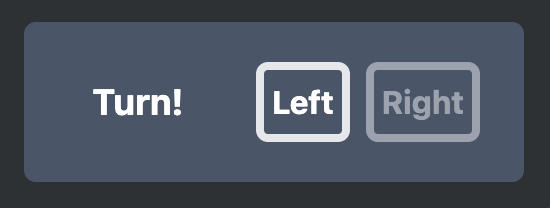
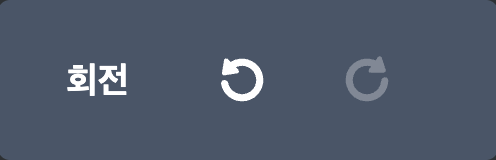
Design: 컨트롤박스 부분 UI 변경 1. 영어 => 한글로 변경 2. 기존 회전 left, right 버튼 기호로 변경 3. 기호 변경에 따른 이미지 추가 및 수정

diff --git a/src/components/SimulController.jsx b/src/components/SimulController.jsx
@@ -4,6 +4,8 @@ import * as CONSTANTS from "../constants/constants";
 import useChuckStore from "../store/chuckStore";
 import Button from "./Button";
 import Modal from "./Modal";
+import left from "../asset/left-rotate.svg";
+import right from "../asset/right-rotate.svg";
 
 const SimulController = ({
   clickedChuckInfo,
@@ -80,26 +82,29 @@ const SimulController = ({
       )}
       <div className="flex flex-col gap-4 fixed bottom-4 right-4 w-[250px] rounded-md bg-slate-600 p-5 justify-center items-center">
         <div className="w-[90%] flex gap-2 items-center">
-          <p className="pl-[2%] pr-[15%] text-center font-bold text-lg">Turn</p>
-          <Button className="h-10 p-1" clickHandler={handleClickLeft}>
-            Left
-          </Button>
-          <Button className="h-10 p-1" clickHandler={handleClickRight}>
-            Right
-          </Button>
+          <p className="pl-[2%] pr-[10%] text-center font-bold text-lg">회전</p>
+          <button className="pr-[5%]" onClick={handleClickLeft}>
+            <img src={left} className="h-10 p-1" />
+          </button>
+          <button onClick={handleClickRight}>
+            <img src={right} className="h-10 p-1" />
+          </button>
         </div>
         <div className="w-[90%] flex gap-2 items-center">
           <Button className="grow h-10 p-1" clickHandler={handleClickViewTurn}>
-            Rotation
+            전체회전
           </Button>
           <Button className="grow h-10 p-1" clickHandler={handleClickStop}>
-            Stop
+            멈춤
           </Button>
         </div>
         <div className="w-[90%] flex gap-2 justify-center items-center">
-          <Button className="w-[100%] h-10 p-1" clickHandler={handleClickReset}>
-            RESET
-          </Button>
+          <button
+            className="w-[100%] h-10 p-1 text-white font-bold rounded-md border-4 hover:bg-red-600"
+            onClick={handleClickReset}
+          >
+            초기화
+          </button>
         </div>
       </div>
     </>

diff --git a/src/components/TutorialController.jsx b/src/components/TutorialController.jsx
@@ -1,5 +1,7 @@
 import * as CONSTANTS from "../constants/constants";
 import Button from "./Button";
+import left from "../asset/left-rotate.svg";
+import right from "../asset/right-rotate.svg";
 
 const TutorialController = ({
   essentialClickButton,
@@ -25,26 +27,27 @@ const TutorialController = ({
   return (
     <div className="flex flex-col gap-4 fixed bottom-4 right-4 w-[250px] rounded-md bg-slate-600 p-5 justify-center items-center">
       <div className="w-[90%] flex gap-2 items-center">
-        <p className="pl-[2%] pr-[15%] text-center font-bold text-lg">Turn!</p>
-        <Button
-          className="h-10 p-1"
-          clickHandler={handleClickLeft}
-          disabled={
-            (!isCompletedIndex || essentialClickButton === "right") &&
-            "disabled"
-          }
-        >
-          Left
-        </Button>
-        <Button
-          className="h-10 p-1"
-          clickHandler={handleClickRight}
-          disabled={
-            (!isCompletedIndex || essentialClickButton === "left") && "disabled"
-          }
-        >
-          Right
-        </Button>
+        <p className="pl-[2%] pr-[15%] text-center font-bold text-lg">회전</p>
+        <button onClick={handleClickLeft} className="h-10 p-1 pr-[10%]">
+          <img
+            src={left}
+            className={`h-full ${
+              !isCompletedIndex || essentialClickButton === "right"
+                ? "opacity-30"
+                : "opacity-100 hover:opacity-75"
+            }`}
+          />
+        </button>
+        <button onClick={handleClickRight} className="h-10 p-1">
+          <img
+            src={right}
+            className={`h-full ${
+              !isCompletedIndex || essentialClickButton === "left"
+                ? "opacity-30"
+                : "opacity-100 hover:opacity-75"
+            }`}
+          />
+        </button>
       </div>
     </div>
   );
